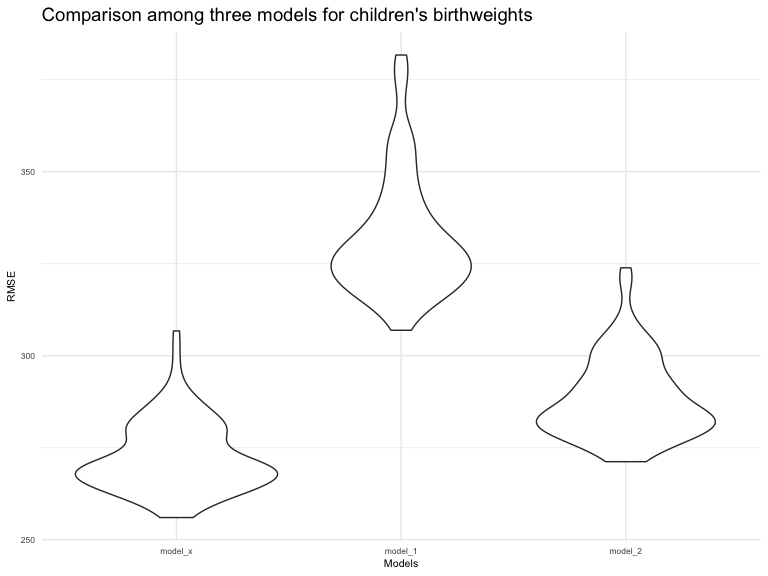
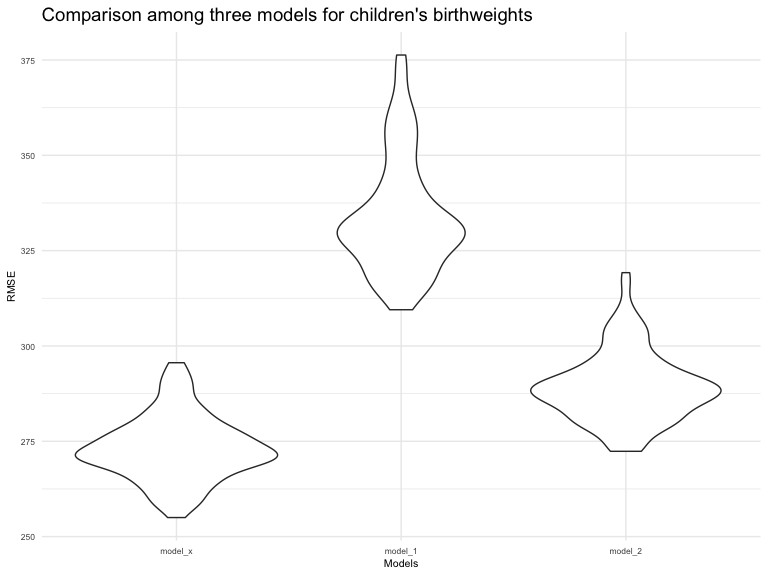
problem 3 finished

diff --git a/p8105_hw6_wz2631.md b/p8105_hw6_wz2631.md
@@ -363,6 +363,8 @@ cv_pre_error =
     )
 ```
 
+#### Visualize the comparison in terms of the cross-validated prediction error.
+
 ``` r
 cv_pre_error %>% 
   select(starts_with("rmse")) %>% 
@@ -382,3 +384,11 @@ cv_pre_error %>%
 ```
 
 <img src="p8105_hw6_wz2631_files/figure-gfm/unnamed-chunk-11-1.png" width="90%" />
+
+According to the violin plot, my model of “bwt \~ babysex + bhead +
+blength + delwt + fincome + gaweeks + mheight + mrace + parity + ppwt +
+smoken” has the lowest RMSE campared with the other 2 models, which
+means this regression model best fits the data. And the model using
+length at birth and gestational age as predictors has the biggest RMSE,
+which means it cannot explain the data very well campared with the other
+2 models.
